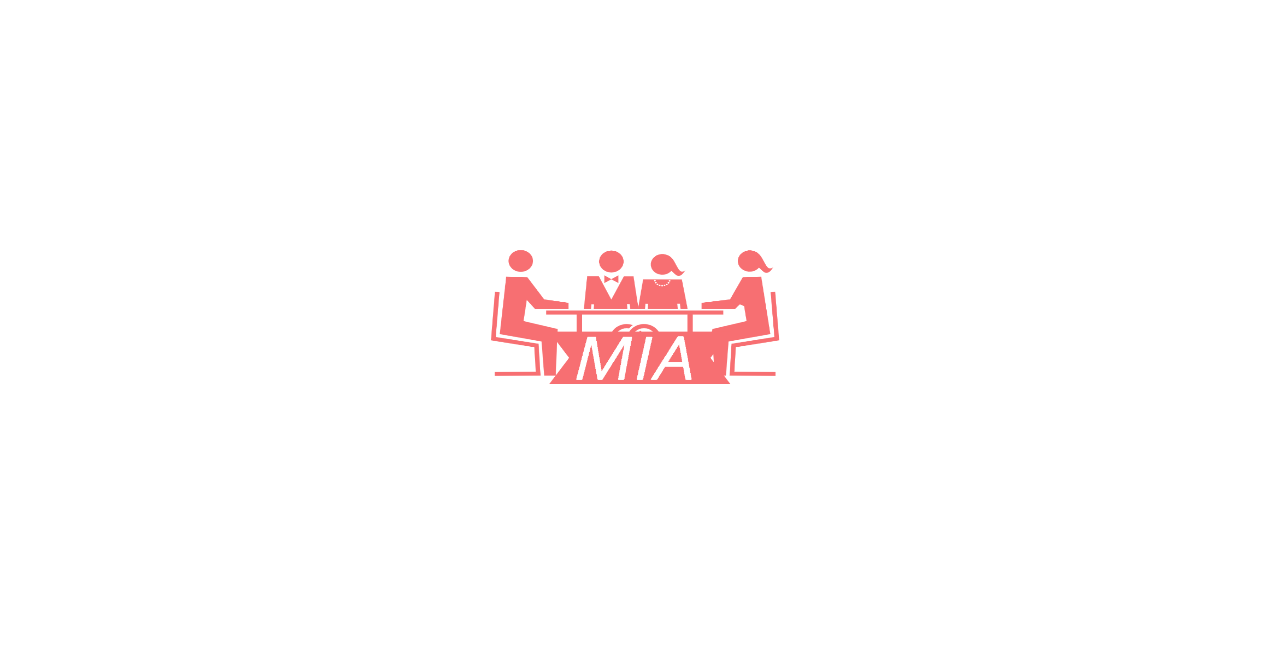
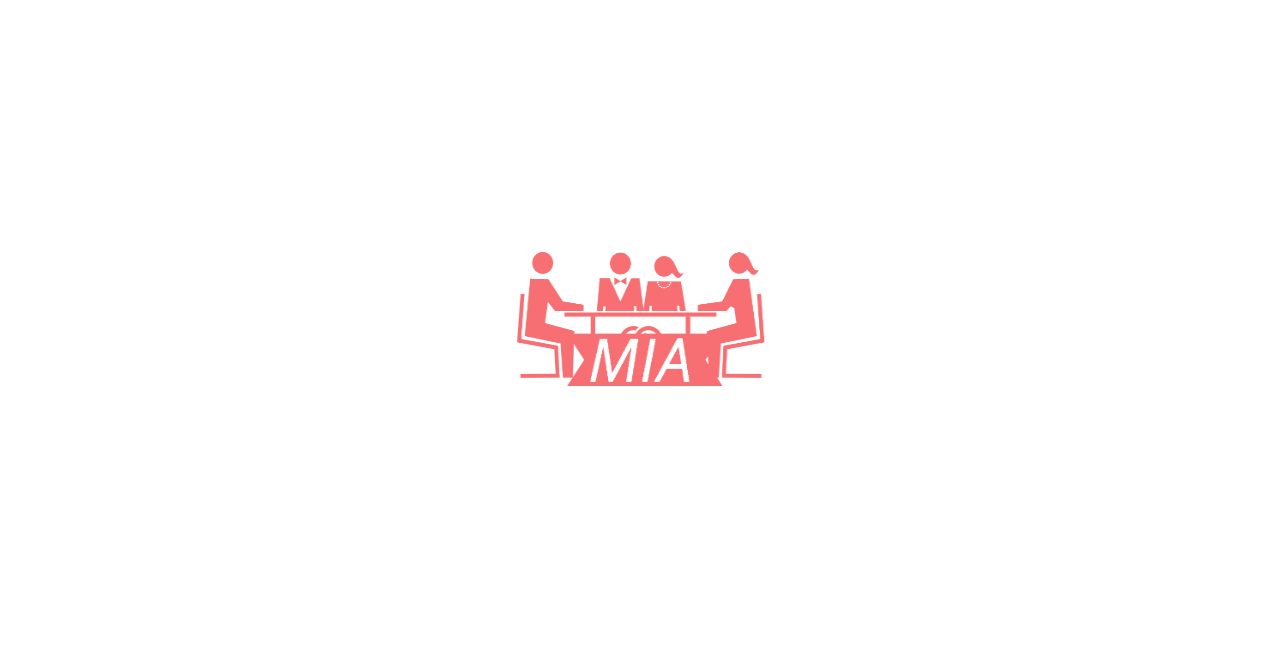
home

Changed region(s): [[0.3738, 0.3704, 0.6231, 0.6173]]

diff --git a/GRapp/GR/resources/views/user/home.blade.php b/GRapp/GR/resources/views/user/home.blade.php
@@ -24,7 +24,7 @@
 <body>
     <header>
         <h1 id="logo">
-            <a href="home"><img src="images/logo.png" alt="Macaroon Shop"></a>
+            <a href="home"><img src="images/MIA2.png" alt="Macaroon Shop"></a>
         </h1>
         <dl id="new">
             <dt>2021/10/26</dt>
